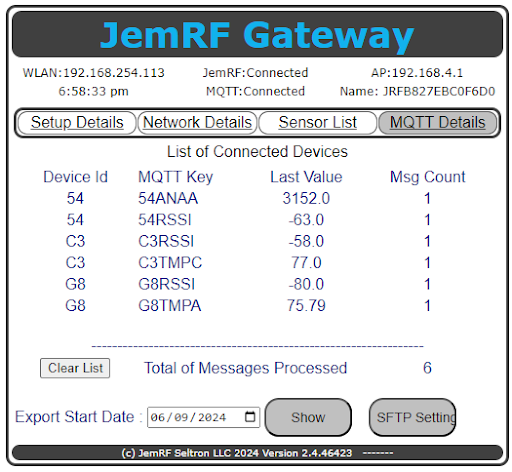
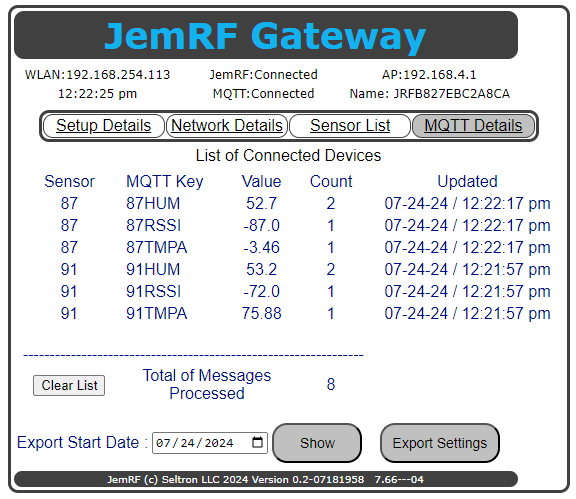
Expand Sensor list and network details

Changed region(s): [[0.0, 0.0, 1.0, 1.0], [0.1875, 0.7119, 0.6875, 0.8008], [0.8125, 0.7712, 0.8438, 0.8008]]

diff --git a/pages/sgateway/sqw-sensorlist.md b/pages/sgateway/sqw-sensorlist.md
@@ -13,19 +13,23 @@ The Sensor List page shows the last messages received from each sensor for which
 <img src="images/sgw-sensorlist.png" width="425"/>
 **Figure 1  The Sensor List screen.**
 
-
-The screenshot below shows a change to the configuration that has been entered. The yellow fields indicate that the change has not yet been processed.
-
+The option at the bottom of the Sensor List page are to support export of the sensor information captured on a specific date. The Export Start Date is the export all the received messages for that date starting an midnight local time based on the timezone in the Network Settings.  The Show command will show that last 30 messages received in the Export format. The screen shot shows the bottom of the 30 messages and the option to Export that days report. The is also an option to set the delimiter used in the CSV output file. The default is a comma(,).
 
 <img src="images/sgw-sensorlist-bottom.png" width="425"/>
-**Figure 2  Bottom Sensor List options.**
+**Figure 2  Bottom Sensor Show option.**
 
+The daily sensor list can be a scheduled export. The Export Settings button will bring up the page shown below.
 <img src="images/sgw-export.png" width="425"/>
-**Figure 2  Export Daily Sensor log.**
+**Figure 3  Export Prior Daily Report.**
 
+The options are Enable Export at selected time and the date and time of the last Export. The color Green indicates the last export was successful.
+The center section is for credentials needed to connect to a remote server to export the logs to.
+The bottom section allows for selection of the Transfer Method. There are two export methods, the first uses a Secure File Transfer protocol (SFTP). This is useful it the remote server is not located locally. Figure 4 show the additional fields for the SFTP export option. The second method show in Figure 3 is using a Windows file server, with the additional fields needed to connect to a Windows Server.
 
 <img src="images/sgw-export-sftp.png" width="425"/>
-**Figure 2  Export using SFTP protocol.**
+**Figure 4  Export using SFTP protocol.**
+Figure 4 also shows an example in yellow that changes have been entered and not yet saved.
+
 
 
 

diff --git a/pages/sgateway/sgw-network.md b/pages/sgateway/sgw-network.md
@@ -7,8 +7,13 @@ permalink: sgw-network.html
 summary: JemRF Smart Gateway Network Tab.
 ---
 # Network Details
-The Network Details page is used to set a static IP address if needed, Identify a custom Network Time Server (NTP Server), and disable the Smart Gateway AP to reduce unwanted Wi-Fi networks and increase access security. If the Gateway has an internal battery-backed clock, the Battery Clock section shows whether it is Active or Not.
-If no Network Time Server is selected, there is the option to enter time manually. The last option is for reporting using local time by selecting the local time zone.
+The Network Details page is used to set a static IP address if needed, Identify a custom Network Time Server (NTP Server), and disable the Smart Gateway AP to reduce unwanted Wi-Fi networks and increase access security.
+
+If the Gateway has an internal battery-backed clock, the Battery Clock section shows whether it is Active or Not.
+
+If no Network Time Server is selected, there is the option to enter time manually.
+
+There is the option for reporting using local time by selecting the local time zone.
 
 <img src="images/sgw-network.png" width="425"/>
 **Figure 1  The Setup Details screen.**
@@ -21,5 +26,12 @@ The screenshot below shows a change to the configuration that has been entered. 
 **Figure 2  The Setup Details screen.**
 
 
+When changes are Saved the is a prompt in the upper left of the page showing about how long it will take for the change to be implemented.
+Figure 3 show the status time to complete of a network IP change.
 
+<img src="images/sgw-network-change.png" width="425"/>
+**Figure 3  Network IP change in Progress.**
+
+
+{% include note.html content="Only one change can be made at a time. A change must complete before making an additional change."%}
 

diff --git a/pages/sgateway/sgw-mqtt.md b/pages/sgateway/sgw-mqtt.md
@@ -40,7 +40,7 @@ The MQTT Agent in the Smart Gateway has four data format options.
 {% include note.html content="
 Once connected and working, to change format the MQTT agent must first be disabled. Then select the new format and Enable."%}
 
-#### JemRF Format
+### JemRF Format
 [JemRF ID]
 - If Temperature Sensor Only
 
